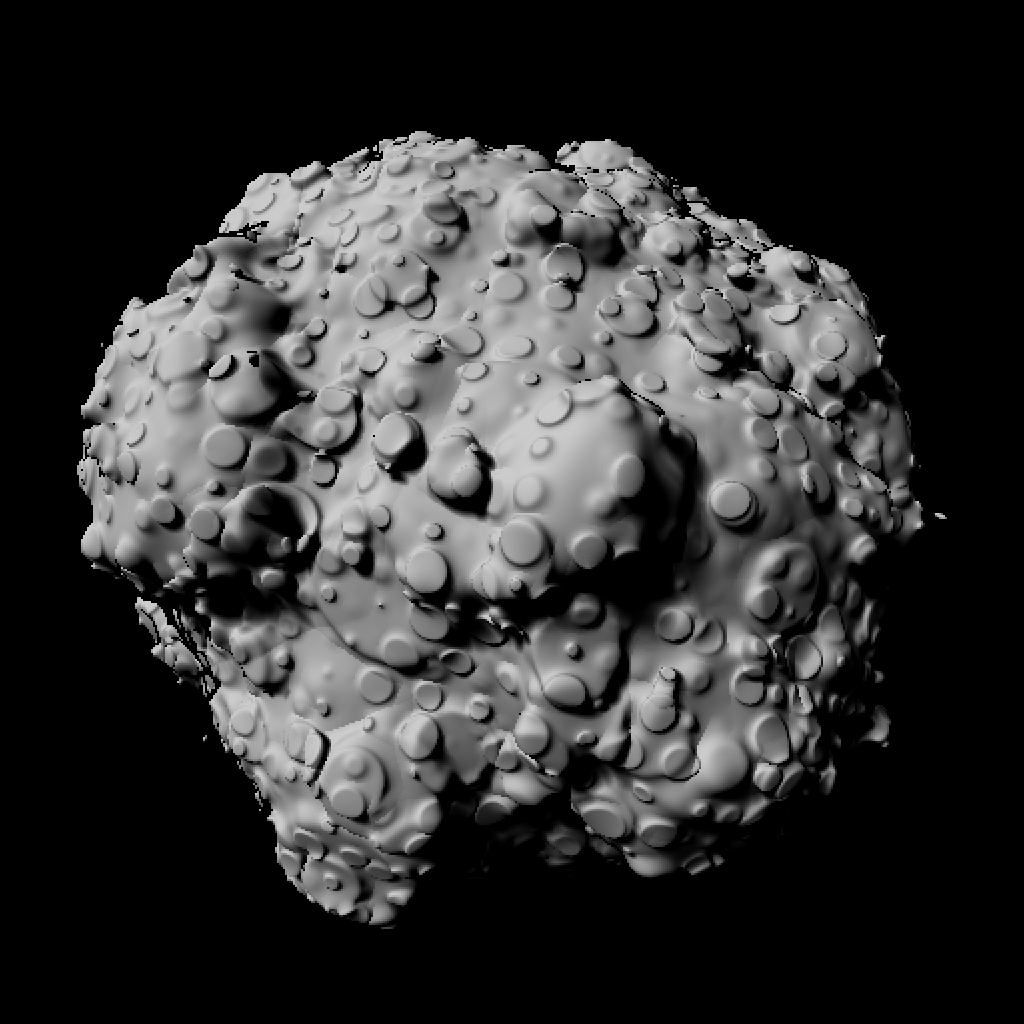
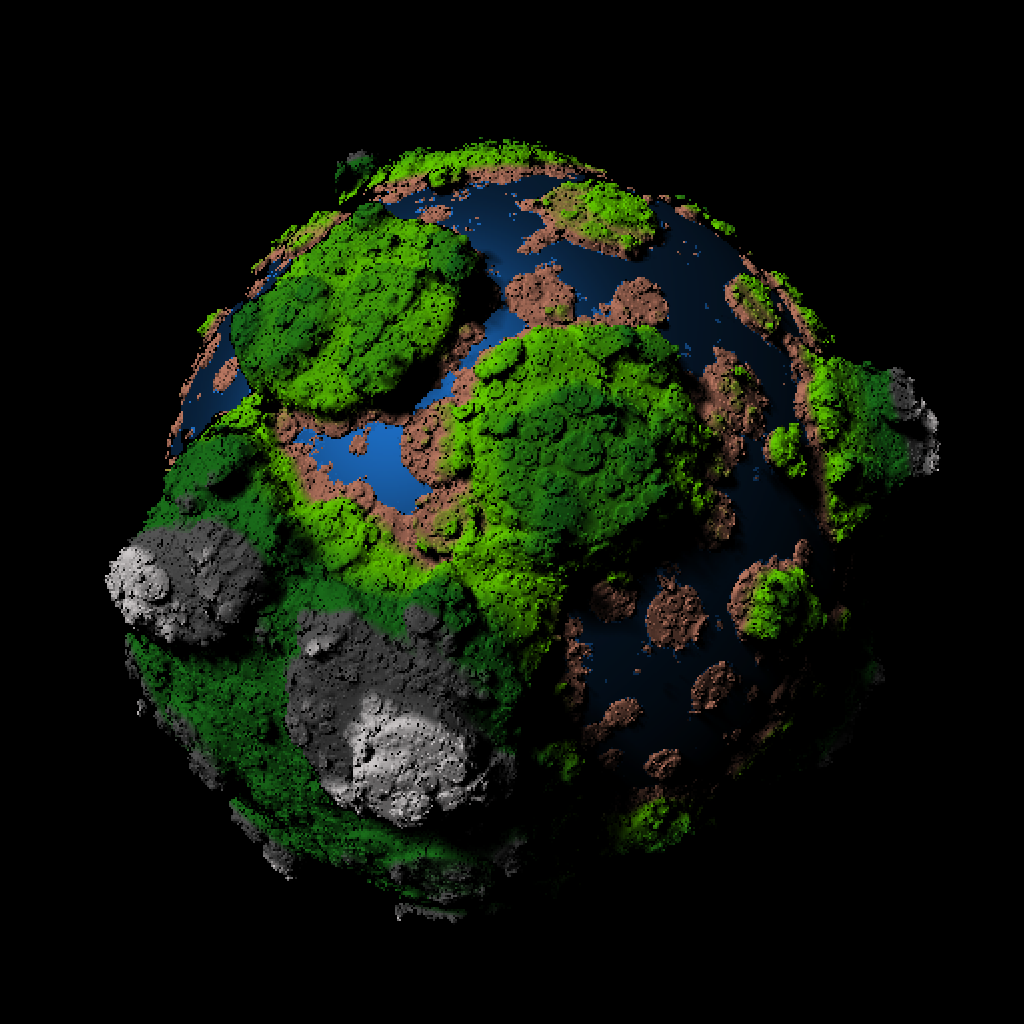
Add color, add water, add specular lighting

diff --git a/RayMarcher.java b/RayMarcher.java
@@ -23,6 +23,15 @@ public class RayMarcher
 		return normal;
 	}
 
+	private static Vector3d reflect(Vector3d v, Vector3d n)
+	{
+		var p = new Vector3d(n);
+		p.scale(-2 * v.dot(n));
+		var o = new Vector3d(v);
+		o.add(p);
+		return o;
+	}
+
 	private static class RayRes
 	{
 		Vector3d p;
@@ -79,10 +88,14 @@ public class RayMarcher
 		StdDraw.clear(StdDraw.BLACK);
 
 		var sphere = new Sphere(1);
-		var fbm = new FBM(sphere, 5, 1.0, 0.5,
-				          0.05, 0.1, 0.4,
-				          666);
-		objs.add(new Translate(fbm, new Vector3d(0, 0, 1.8)));
+		var fbm = new FBM(sphere, 8, 1.0, 0.5,
+				          0.07, 0.07, 0.28,
+				          666,
+						  new double[] {0.02, 0.01, 0.03, 0.02, 0.0},
+						  new double[] {0.01, 0.04, 0.01, 0.01, 0.0},
+						  new Vector3d[] {new Vector3d(0.91, 0.59, 0.48), new Vector3d(0.49, 0.99, 0), new Vector3d(0.13, 0.54, 0.13), new Vector3d(0.41, 0.41, 0.41), new Vector3d(1.0, 0.98, 0.98)});
+		var water = new Sphere(1.01, new Vector3d(0.15, 0.56, 1.0), 0.3, 2.5);
+		objs.add(new Translate(new Rotate(new Union(fbm, water), new Vector3d(Math.toRadians(45), 0, 0)), new Vector3d(0, 0, 1.8)));
 
 		//var box = new Translate(new Box(new Vector3d(0.4, 0.7, 0.5)), new Vector3d(0.6, -0.4, -0.3));
 
@@ -114,6 +127,8 @@ public class RayMarcher
 				var hit = ray(p, dir, Double.POSITIVE_INFINITY);
 				if (hit.obj != null)
 				{
+					var color = hit.obj.getColor(hit.p);
+
 					var lightDir = new Vector3d(lightOrigin);
 					lightDir.sub(hit.p);
 					double lightDist = lightDir.length();
@@ -131,11 +146,20 @@ public class RayMarcher
 					// Soft shadow by dimming the light according to the shortest distance to the light
 					// when travelling along the shadow ray.
 					final double shadowHardness = 10.0;
-					double intensity = 0.0;
-					if (lightHit.obj == null) intensity = Math.max(lightDir.dot(n), 0.0);
-					intensity *= Math.min(lightHit.shadow * shadowHardness, 1.0);
+					double diffuseInt = 0.0;
+					if (lightHit.obj == null) diffuseInt = Math.max(lightDir.dot(n), 0.0);
+					diffuseInt *= Math.min(lightHit.shadow * shadowHardness, 1.0);
+					diffuseInt *= hit.obj.getDiffuseRatio(hit.p);
 
-					StdDraw.setPenColor((int) (255 * intensity), (int) (255 * intensity), (int) (255 * intensity));
+					double specularInt = 0.0;
+					if (lightHit.obj == null) specularInt = Math.max(reflect(dir, n).dot(lightDir), 0.0);
+					specularInt = Math.pow(specularInt, hit.obj.getSpecularExp(hit.p));
+					specularInt *= 1.0 - hit.obj.getDiffuseRatio(hit.p);
+
+					color.scale(diffuseInt + specularInt);
+					color.clampMin(0.0);
+					color.clampMax(1.0);
+					StdDraw.setPenColor((int) (255 * color.x), (int) (255 * color.y), (int) (255 * color.z));
 					// StdDraw.setPenColor(Math.min(Math.max((int) ((n.x / 2 + 1) * 255), 0), 255), Math.min(Math.max((int) ((n.y / 2 + 1) * 255), 0), 255), 0);
 					//StdDraw.setPenColor(StdDraw.WHITE);
 					StdDraw.point(i, j);

diff --git a/FBM.java b/FBM.java
@@ -4,10 +4,17 @@ import java.util.Random;
 public class FBM implements SDF
 {
 	static private final SDF noise = new RandSphGrid(0.5);
+
+	private final SDF sdf;
 	private SDF layers;
 
-	public FBM(SDF sdf, int n, double s0, double sFactor, double inflation, double kMax, double kMin, long rotSeed)
+	private final double[] solid;
+	private final double[] trans;
+	private final Vector3d[] colors;
+
+	public FBM(SDF sdf, int n, double s0, double sFactor, double inflation, double kMax, double kMin, long rotSeed, double[] solid, double[] trans, Vector3d[] colors)
 	{
+		this.sdf = sdf;
 		layers = sdf;
 
 		var rand = new Random(rotSeed);
@@ -22,11 +29,42 @@ public class FBM implements SDF
 			layers = new Rotate(layers, new Vector3d(a * rand.nextDouble(), a * rand.nextDouble(), a * rand.nextDouble()));
 			s *= sFactor;
 		}
+
+		this.solid = solid;
+		this.trans = trans;
+		this.colors = colors;
+		assert(solid.length == trans.length && trans.length == colors.length);
 	}
 
 	@Override
 	public double dist(Vector3d p)
 	{
 		return layers.dist(p);
+	}
+
+	@Override
+	public Vector3d getColor(Vector3d p)
+	{
+		double height = sdf.dist(p);
+		double sum = 0.0;
+
+		for (int i = 0; i < colors.length - 1; ++i)
+		{
+			sum += solid[i];
+			if (height <= sum) return new Vector3d(colors[i]);
+
+			sum += trans[i];
+			if (height <= sum)
+			{
+				var c = new Vector3d(colors[i]);
+				var cd = new Vector3d(colors[i + 1]);
+				cd.sub(c);
+				cd.scale((height - (sum - trans[i])) / trans[i]);
+				c.add(cd);
+				return c;
+			}
+		}
+
+		return new Vector3d(colors[colors.length - 1]);
 	}
 }

diff --git a/Sphere.java b/Sphere.java
@@ -4,9 +4,24 @@ public class Sphere implements SDF
 {
 	private final double r;
 
+	private final Vector3d color;
+	private final double diffuseRatio;
+	private final double specularExp;
+
 	public Sphere(double r)
 	{
 		this.r = r;
+		this.color = new Vector3d(1.0, 1.0, 1.0);
+		this.diffuseRatio = 1.0;
+		this.specularExp = 0.0;
+	}
+
+	public Sphere(double r, Vector3d color, double diffuseRatio, double specularExp)
+	{
+		this.r = r;
+		this.color = color;
+		this.diffuseRatio = diffuseRatio;
+		this.specularExp = specularExp;
 	}
 
 	@Override
@@ -15,4 +30,23 @@ public class Sphere implements SDF
 		var d = new Vector3d(p);
 		return d.length() - r;
 	}
+
+	@Override
+	public Vector3d getColor(Vector3d p)
+	{
+		return new Vector3d(color);
+	}
+
+	@Override
+	public double getDiffuseRatio(Vector3d p)
+	{
+		return diffuseRatio;
+	}
+
+	@Override
+	public double getSpecularExp(Vector3d p)
+	{
+		return specularExp;
+	}
+
 }

diff --git a/Translate.java b/Translate.java
@@ -13,11 +13,34 @@ public class Translate implements SDF
 		this.trans = trans;
 	}
 
-	@Override
-	public double dist(Vector3d p)
+	public Vector3d getTrans(Vector3d p)
 	{
 		var pTrans = new Vector3d(p);
 		pTrans.sub(trans);
-		return sdf.dist(pTrans);
+		return pTrans;
+	}
+
+	@Override
+	public double dist(Vector3d p)
+	{
+		return sdf.dist(getTrans(p));
+	}
+
+	@Override
+	public Vector3d getColor(Vector3d p)
+	{
+		return sdf.getColor(getTrans(p));
+	}
+
+	@Override
+	public double getDiffuseRatio(Vector3d p)
+	{
+		return sdf.getDiffuseRatio(getTrans(p));
+	}
+
+	@Override
+	public double getSpecularExp(Vector3d p)
+	{
+		return sdf.getSpecularExp(getTrans(p));
 	}
 }

diff --git a/Rotate.java b/Rotate.java
@@ -26,11 +26,34 @@ public class Rotate implements SDF
 		rot.mul(rotZ);
 	}
 
-	@Override
-	public double dist(Vector3d p)
+	public Vector3d getRot(Vector3d p)
 	{
 		var pRot = new Vector3d(p);
 		rot.transform(pRot);
-		return sdf.dist(pRot);
+		return pRot;
+	}
+
+	@Override
+	public double dist(Vector3d p)
+	{
+		return sdf.dist(getRot(p));
+	}
+
+	@Override
+	public Vector3d getColor(Vector3d p)
+	{
+		return sdf.getColor(getRot(p));
+	}
+
+	@Override
+	public double getDiffuseRatio(Vector3d p)
+	{
+		return sdf.getDiffuseRatio(getRot(p));
+	}
+
+	@Override
+	public double getSpecularExp(Vector3d p)
+	{
+		return sdf.getSpecularExp(getRot(p));
 	}
 }

diff --git a/Union.java b/Union.java
@@ -17,4 +17,43 @@ public class Union implements SDF
 	{
 		return Math.min(a.dist(p), b.dist(p));
 	}
+
+	@Override
+	public Vector3d getColor(Vector3d p)
+	{
+		if (a.dist(p) < b.dist(p))
+		{
+			return a.getColor(p);
+		}
+		else
+		{
+			return b.getColor(p);
+		}
+	}
+
+	@Override
+	public double getDiffuseRatio(Vector3d p)
+	{
+		if (a.dist(p) < b.dist(p))
+		{
+			return a.getDiffuseRatio(p);
+		}
+		else
+		{
+			return b.getDiffuseRatio(p);
+		}
+	}
+
+	@Override
+	public double getSpecularExp(Vector3d p)
+	{
+		if (a.dist(p) < b.dist(p))
+		{
+			return a.getSpecularExp(p);
+		}
+		else
+		{
+			return b.getSpecularExp(p);
+		}
+	}
 }

diff --git a/SDF.java b/SDF.java
@@ -6,4 +6,19 @@ public interface SDF
 	// The distance function could return the actual Euclidean distance for some SDFs.
 	// But for others, it might only guarantee that the points outside of the object would be mapped to a positive value, and the points inside negative.
 	public double dist(Vector3d p);
+
+	default public Vector3d getColor(Vector3d p)
+	{
+		return new Vector3d(1.0, 1.0, 1.0);
+	}
+
+	default public double getDiffuseRatio(Vector3d p)
+	{
+		return 1.0;
+	}
+
+	default public double getSpecularExp(Vector3d p)
+	{
+		return 0.0;
+	}
 }
